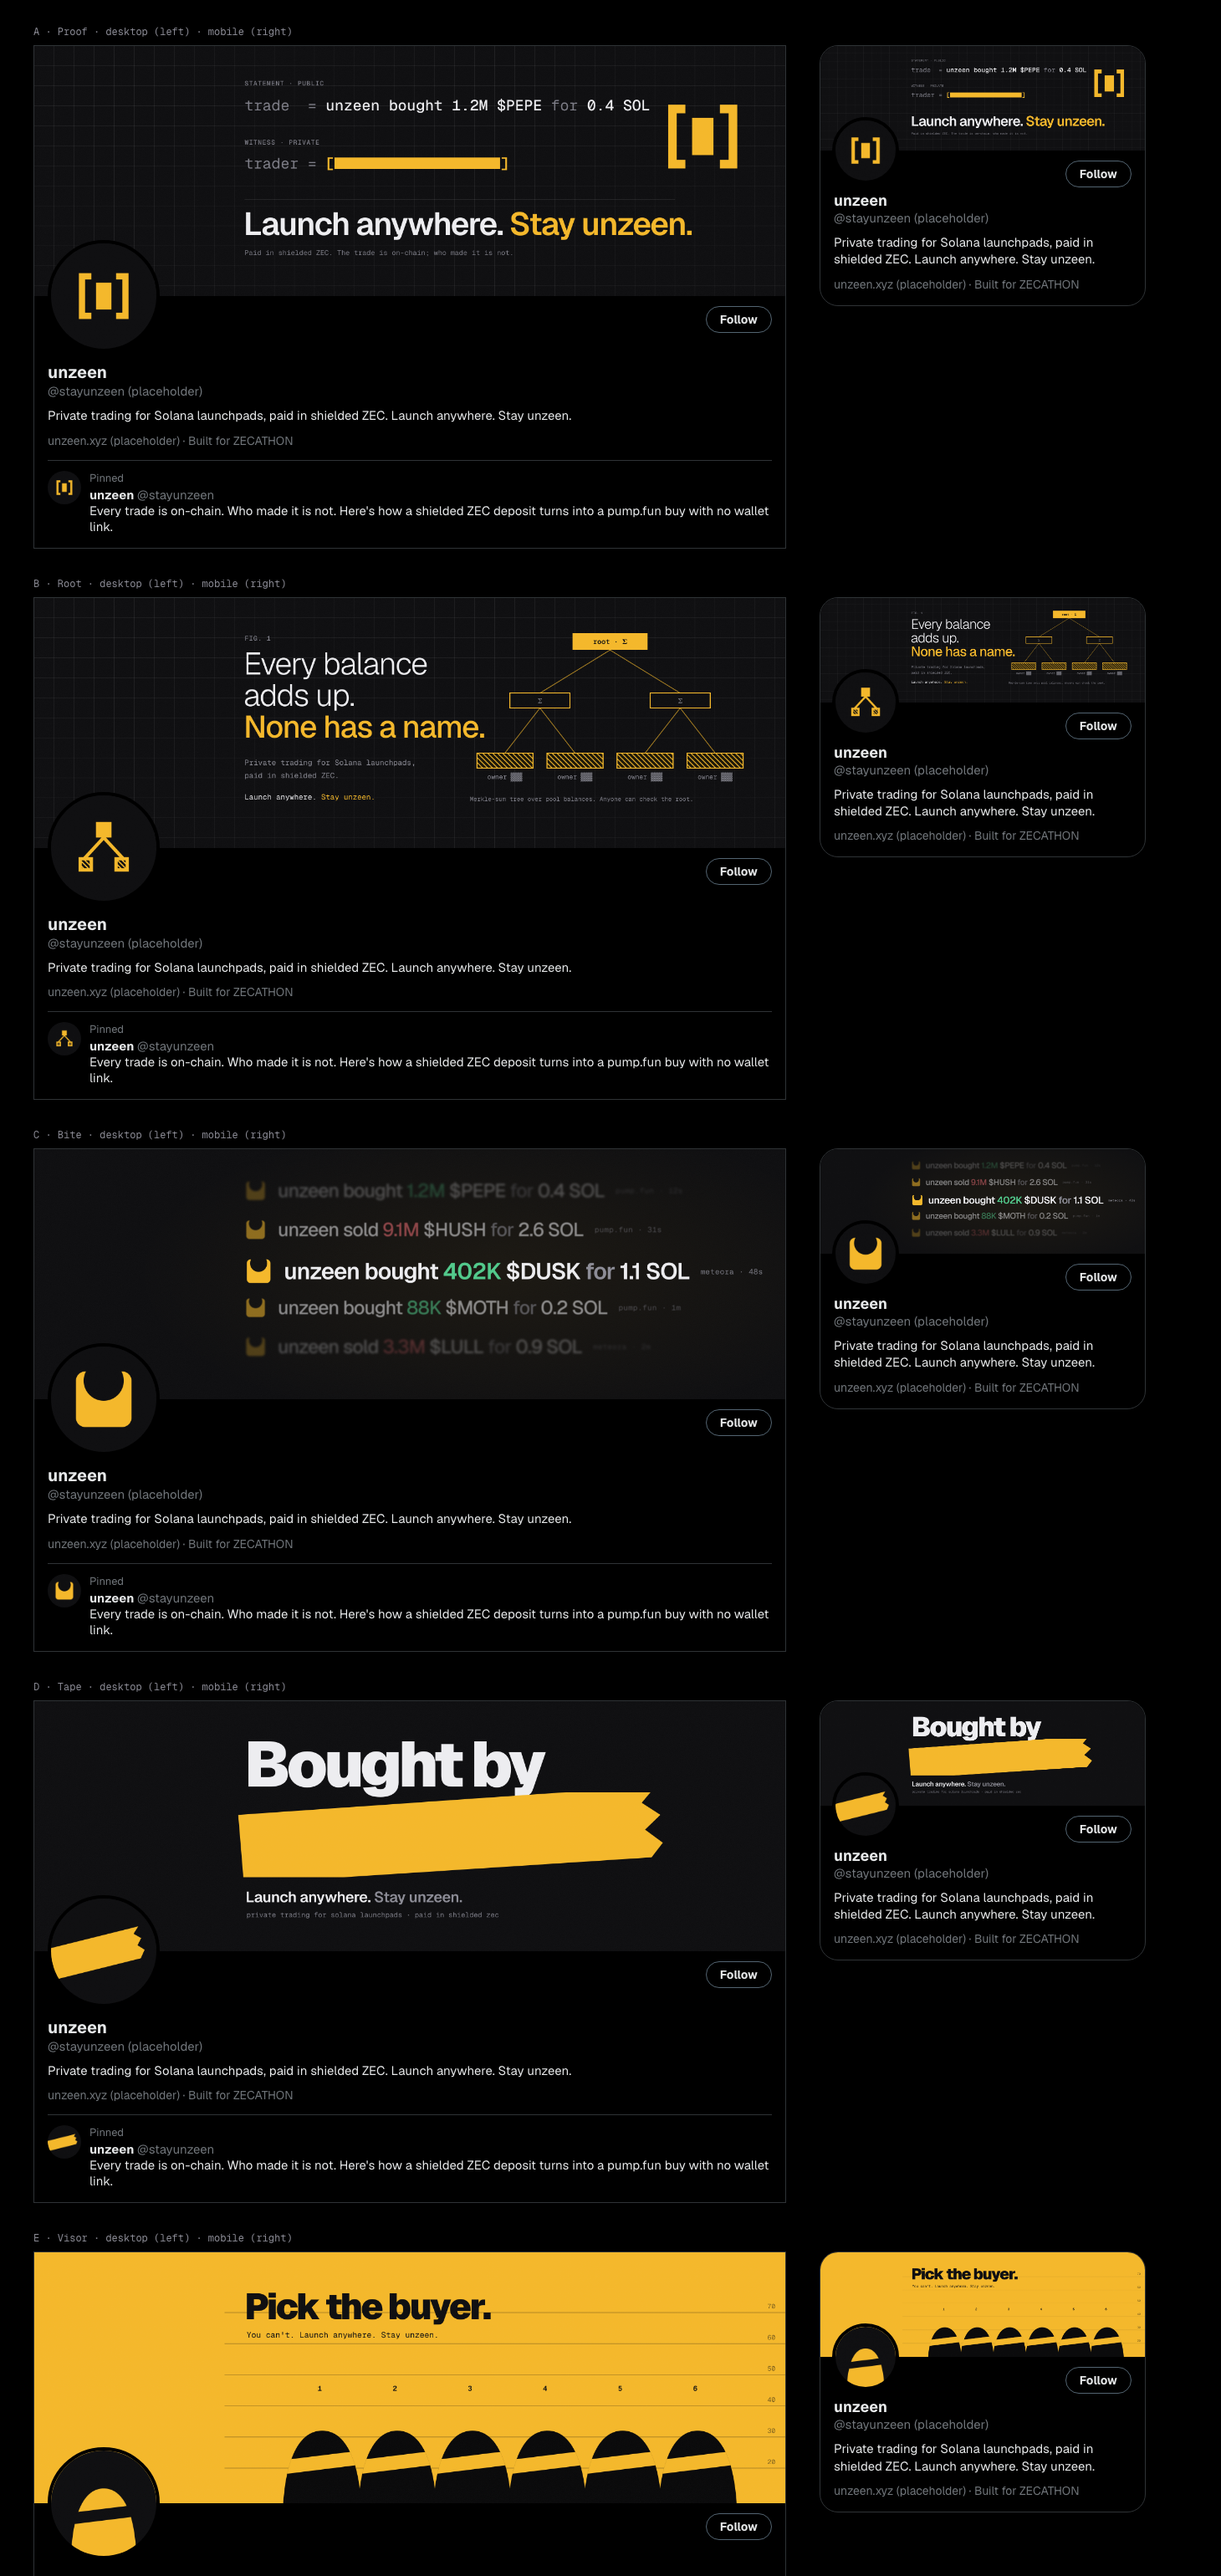
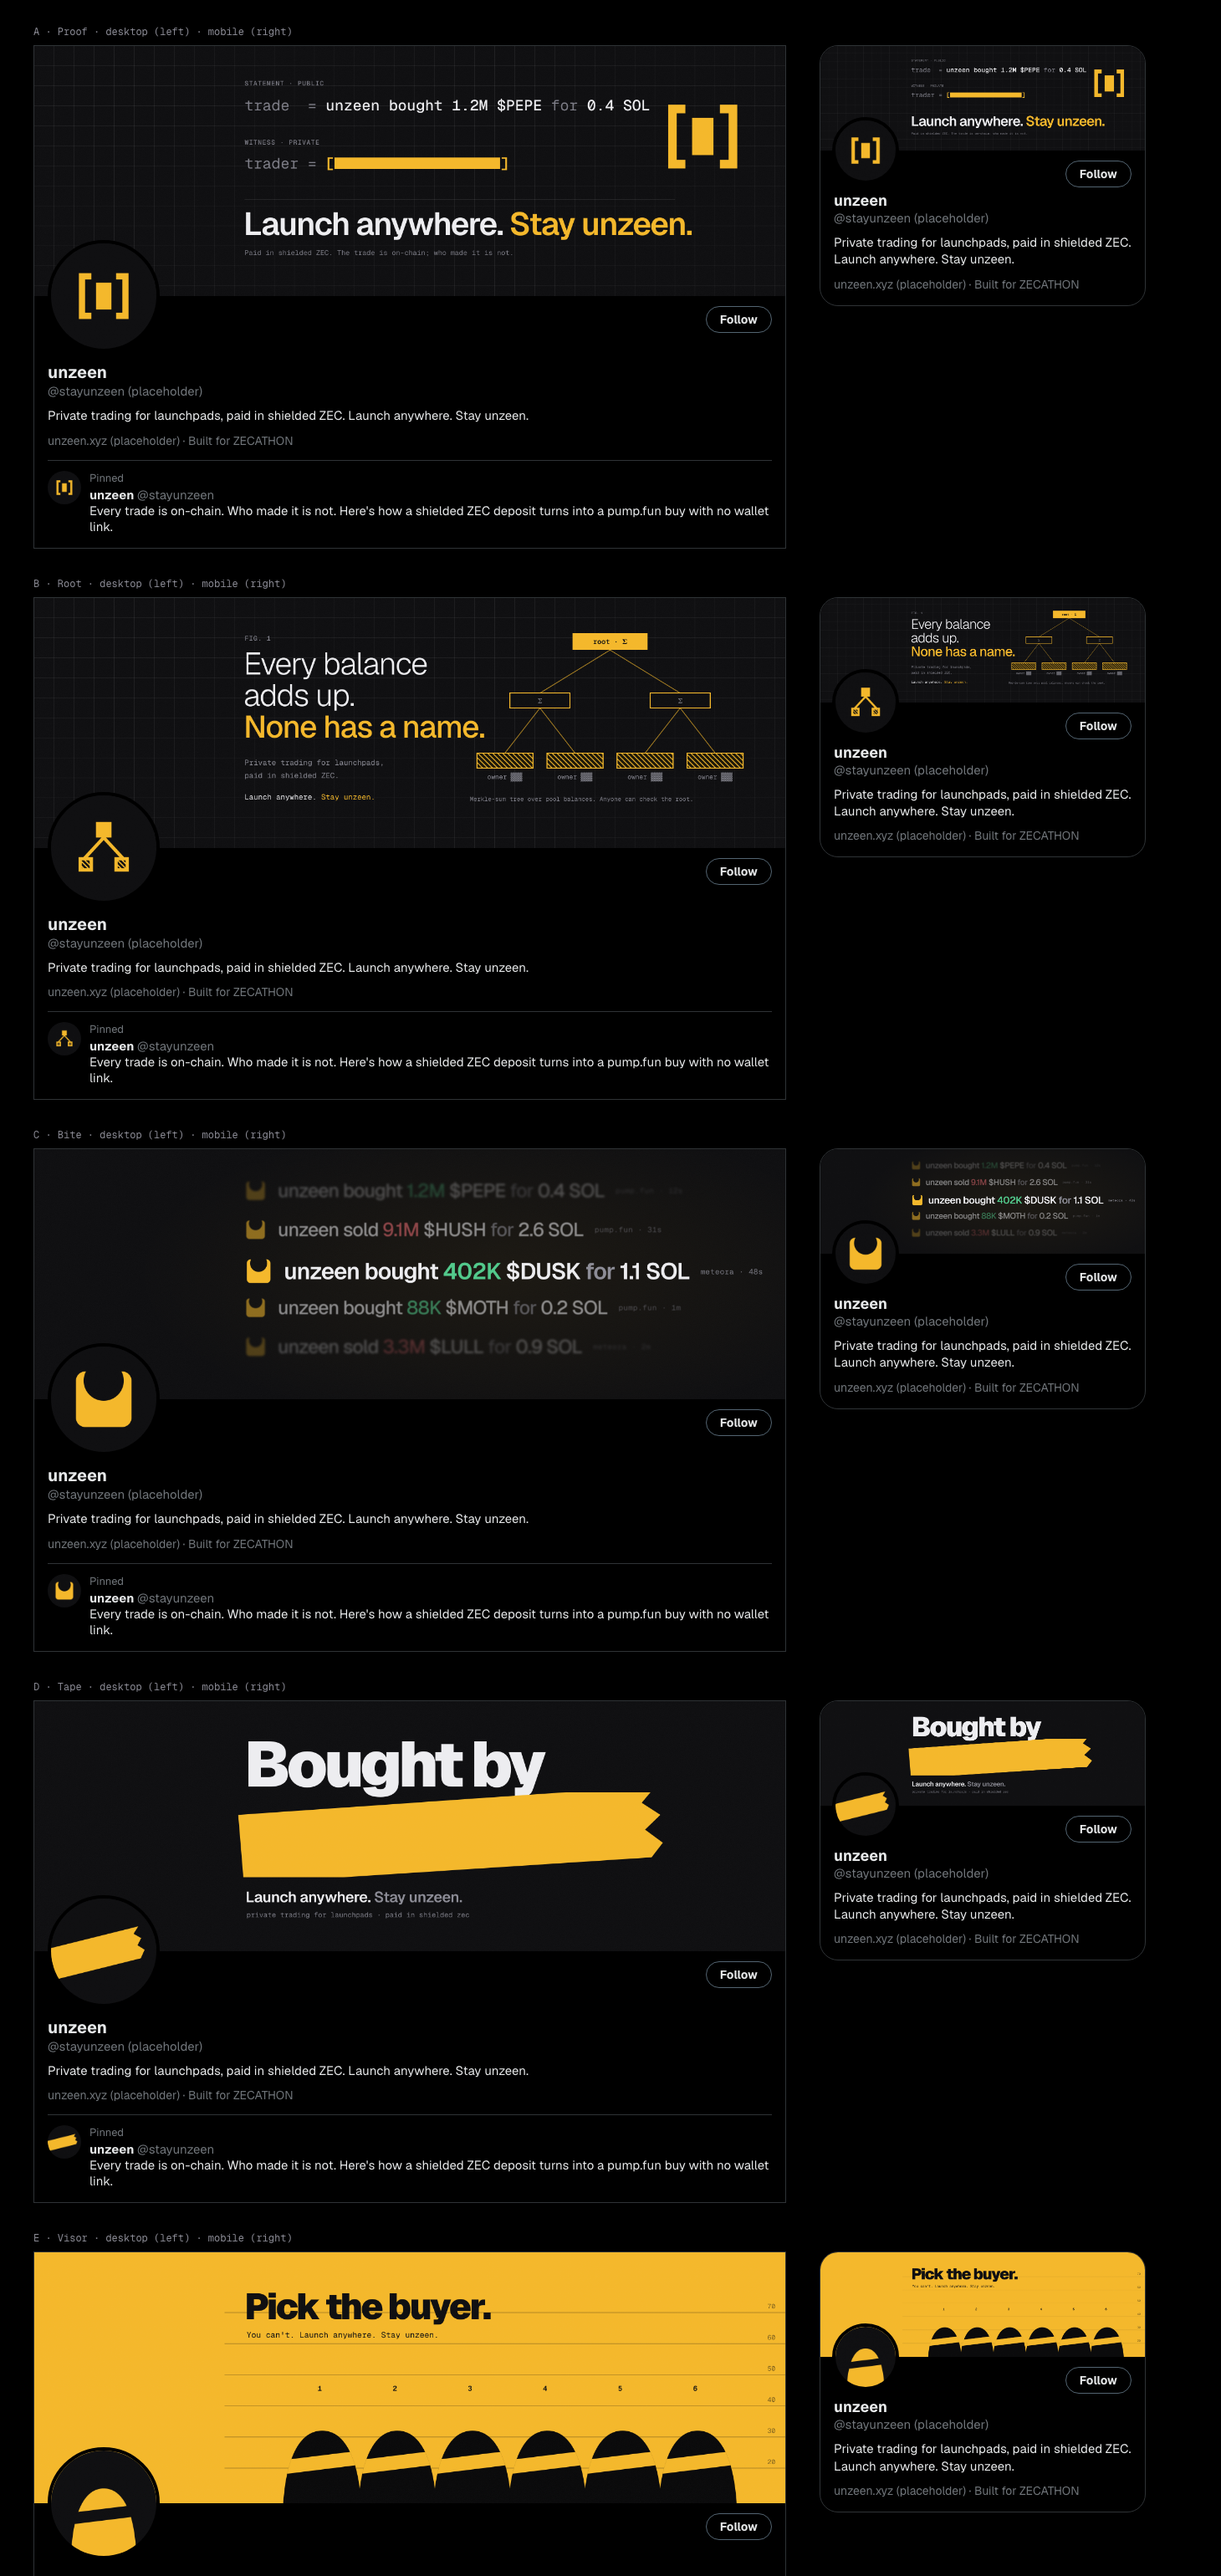
brand v3: remove Solana from copy, Tape wordmark variants D2a/D2b
Claude-Session: https://claude.ai/code/session_01LmbUzhPqR58YuKaDUmZiZH

diff --git a/docs/brand/v3/src/d2-sheet.html b/docs/brand/v3/src/d2-sheet.html
@@ -1,0 +1,24 @@
+<!doctype html><html lang="en"><head><meta charset="utf-8"><title>Unzeen v3 · Tape wordmark fixes</title>
+<link rel="stylesheet" href="base.css">
+<style>
+  body { width: 1600px; height: 900px; padding: 40px 48px; }
+  h1 { font: 500 15px "Geist Mono"; color: var(--fog-3); margin-bottom: 22px; }
+  .row { display: grid; grid-template-columns: 260px 560px 1fr; gap: 32px; align-items: center; padding: 22px 0; border-top: 1px solid var(--hair); }
+  .t b { display: block; font: 600 20px "Geist"; margin-bottom: 6px; } .t span { font: 12px/1.5 "Geist Mono"; color: var(--fog-3); }
+  .lk img { height: 84px; display: block; border-radius: 6px; } .lk img + img { margin-top: 10px; }
+  .hdr { display: flex; align-items: center; justify-content: space-between; background: var(--ink-1); border: 1px solid var(--hair-2); border-radius: 10px; padding: 14px 18px; width: 620px; }
+  .hdr img { height: 26px; display: block; } .hdr nav { font: 14px "Geist"; color: var(--fog-3); display: flex; gap: 20px; }
+  .sm { display: flex; gap: 20px; align-items: center; margin-top: 12px; } .sm img { display: block; }
+</style></head><body>
+<h1>D · Tape wordmark: current vs two fixes · lockup dark / light · in a site header (26px) · small (16px)</h1>
+<script>
+const rows = [
+  ["d-tape", "D · current", "tape across the middle of zee: reads as a strikethrough"],
+  ["d2a-tape", "D2a · z only", "the tape hides the z and nothing else: un▬een. Reads as unseen, and the mark carries no Z"],
+  ["d2b-tape", "D2b · low strip", "a thin label strip along the baseline under zee: tape, not a strike"],
+];
+for (const [f, t, l] of rows) document.write(`<div class="row"><div class="t"><b>${t}</b><span>${l}</span></div>
+  <div class="lk"><img src="../svg/${f}-lockup-dark.svg"><img src="../svg/${f}-lockup-light.svg"></div>
+  <div><div class="hdr"><img src="../svg/${f}-wordmark-dark.svg"><nav><span>Feed</span><span>Launch</span><span>Verify</span></nav></div>
+  <div class="sm"><img src="../svg/${f}-wordmark-dark.svg" style="height:16px"><img src="../svg/${f}-wordmark-dark.svg" style="height:20px"></div></div></div>`);
+</script></body></html>

diff --git a/docs/brand/v3/src/banner.html b/docs/brand/v3/src/banner.html
@@ -65,7 +65,7 @@ if (d.k === "b") {
   </svg>
   <div class="abs tag" style="left:420px;top:72px">fig. 1</div>
   <h1 class="abs" style="left:418px;top:100px;font-size:62px;font-weight:300;letter-spacing:-0.03em;line-height:1.02">Every balance<br>adds up.<br><span class="y" style="font-weight:500">None has a name.</span></h1>
-  <div class="abs eq" style="left:420px;top:316px;font-size:15px;line-height:1.7;color:var(--fog-3)">Private trading for Solana launchpads,<br>paid in shielded ZEC.</div>
+  <div class="abs eq" style="left:420px;top:316px;font-size:15px;line-height:1.7;color:var(--fog-3)">Private trading for launchpads,<br>paid in shielded ZEC.</div>
   <div class="abs eq" style="left:420px;top:388px;font-size:15px;color:var(--paper)">Launch anywhere. <span class="y">Stay unzeen.</span></div>
   <div class="abs eq" style="left:${X0}px;top:${ys[2] + 84}px;font-size:12px;color:var(--fog-2)">Merkle-sum tree over pool balances. Anyone can check the root.</div>`;
 }
@@ -95,7 +95,7 @@ if (d.k === "d") {
   <svg class="abs" style="left:404px;top:182px" width="900" height="170" viewBox="0 0 900 170"><g transform="rotate(-3 450 85)">
     <path fill="#F4B728" d="M6,22 L842,8 L812,40 L848,66 L816,94 L850,122 L826,150 L10,160 Z"/></g></svg>
   <div class="abs" style="left:422px;top:372px;font:600 30px Geist;letter-spacing:-0.02em">Launch anywhere. <span style="color:var(--fog-3)">Stay unzeen.</span></div>
-  <div class="abs mono" style="left:424px;top:418px;font-size:14px;color:var(--fog-2)">private trading for solana launchpads · paid in shielded zec</div>`;
+  <div class="abs mono" style="left:424px;top:418px;font-size:14px;color:var(--fog-2)">private trading for launchpads · paid in shielded zec</div>`;
 }
 
 /* E · Visor: the lineup. Yellow ground, identical suspects, height lines. */

diff --git a/docs/brand/v3/src/preview-profile.html b/docs/brand/v3/src/preview-profile.html
@@ -20,7 +20,7 @@
   .mob .pin { display: none; }
 </style></head><body>
 <script>
-const bio = "Private trading for Solana launchpads, paid in shielded ZEC. Launch anywhere. Stay unzeen.";
+const bio = "Private trading for launchpads, paid in shielded ZEC. Launch anywhere. Stay unzeen.";
 for (const d of DIRS) {
   const card = (cls) => `<div class="${cls}"><div class="hdr"><img src="../x/banner-${d.k}@2x.png"></div><div class="body"><img class="av" src="../x/avatar-${d.k}@2x.png">
     <div class="btn">Follow</div><div class="name">unzeen</div><div class="handle">@stayunzeen (placeholder)</div><div class="bio">${bio}</div>

diff --git a/docs/brand/v3/src/build.py b/docs/brand/v3/src/build.py
@@ -154,13 +154,30 @@ def mark_g(k, u, light=False, small=False):
     if k == "e": return f(u, fg=INK, bar=ZEC, bg=LIGHT, small=small)
 
 
-def wordmark(k, x, base, size, color, u, light=False):
+def wordmark(k, x, base, size, color, u, light=False, tv=None):
     font, tr = WORD[k]
     o = outline(font, "unzeen", tr)
     s = size / o["upm"]
     paths = "".join(f'<path d="{g["d"]}"/>' for g in o["glyphs"])
     out = f'<g transform="translate({x} {base}) scale({s})" fill="{color}">{paths}</g>'
     extra = ""
+    if k == "d" and tv == "z":  # d2a: the tape hides the z only -> "un▬een" (reads as unseen; no Z in the mark either)
+        g = o["glyphs"]
+        zx0, zx1 = g[2]["x"] * s + x + 1, (g[2]["x"] + g[2]["adv"]) * s + x - 1
+        xh = o["xh"] * s
+        h = xh * 1.04
+        y0 = base - xh * 1.05
+        d = tape_path(zx0, y0, zx1 - zx0, h, teeth=3, tear=(zx1 - zx0) * 0.16)
+        return out.replace(paths, "".join(f'<path d="{gg["d"]}"/>' for i, gg in enumerate(o["glyphs"]) if i != 2)) + \
+            f'<g transform="rotate(-4 {(zx0+zx1)/2} {y0+h/2})"><path d="{d}" fill="{ZEC}"/></g>', o["width"] * s
+    if k == "d" and tv == "low":  # d2b: a thin label strip under "zee", over the baseline only: tape, not a strike
+        g = o["glyphs"]
+        zx0, zx1 = g[2]["x"] * s + x - 6, (g[4]["x"] + g[4]["adv"]) * s + x + 10
+        xh = o["xh"] * s
+        h = xh * 0.26
+        y0 = base - h * 0.55
+        d = tape_path(zx0, y0, zx1 - zx0, h, teeth=2, tear=h * 0.45)
+        return out + f'<g transform="rotate(-2.5 {(zx0+zx1)/2} {y0+h/2})"><path d="{d}" fill="{ZEC}"/></g>', o["width"] * s
     if k == "d":  # the tape over "zee": covers the middle band of the x-height, letters still read
         g = o["glyphs"]
         zx0, zx1 = g[2]["x"] * s + x - 4, (g[4]["x"] + g[4]["adv"]) * s + x + 2
@@ -172,13 +189,13 @@ def wordmark(k, x, base, size, color, u, light=False):
     return out + extra, o["width"] * s
 
 
-def lockup(k, light=False):
+def lockup(k, light=False, tv=None):
     H = 120
     msize = 84
     body = f'<g transform="translate(18 18) scale({msize/64})">{mark_g(k, "L"+k+("l" if light else "d"), light)}</g>'
     size = 76 if k != "a" else 68
     color = INK if light else PAPER
-    wm, ww = wordmark(k, 18 + msize + 26, 87, size, color, k, light)
+    wm, ww = wordmark(k, 18 + msize + 26, 87, size, color, k, light, tv)
     W = int(18 + msize + 26 + ww + 26)
     return svg(W, H, body + wm, bg=LIGHT if light else INK, title="unzeen")
 
@@ -203,6 +220,14 @@ def main():
         write(f"{n}-wordmark-dark.svg", svg(int(ww + 8), 80, wm))
     # avatar marks (no ground): visor rising from the bottom edge
     write("e-visor-avatar-body.svg", svg(64, 64, mark_visor("av", fg=INK0, bar="#F4B728", crop=True)))
+    # D2: two fixes for the Tape wordmark so "unzeen" does not read as struck through
+    for tv, nm in (("z", "d2a-tape"), ("low", "d2b-tape")):
+        write(f"{nm}-lockup-dark.svg", lockup("d", tv=tv))
+        write(f"{nm}-lockup-light.svg", lockup("d", light=True, tv=tv))
+        wm, ww = wordmark("d", 4, 66, 76, PAPER, "d2" + tv, tv=tv)
+        write(f"{nm}-wordmark-dark.svg", svg(int(ww + 12), 84, wm))
+        wm, ww = wordmark("d", 4, 66, 76, INK, "d2l" + tv, tv=tv)
+        write(f"{nm}-wordmark-light.svg", svg(int(ww + 12), 84, wm, bg=LIGHT))
     write("e-visor-avatar-yellow.svg", svg(64, 64, mark_visor("ay", crop=True)))
     print("ok")
 

diff --git a/docs/brand/v3/src/jobs.py b/docs/brand/v3/src/jobs.py
@@ -27,6 +27,7 @@ for k, n in DIRS:
 J(u("logos.html"), 1800, 1060, 1, os.path.join(OUT, "logo-sheet.png"))
 J(u("preview-profile.html"), 1460, 3080, 1, os.path.join(OUT, "preview-profile.png"))
 J(u("preview-safezone.html"), 1600, 2940, 1, os.path.join(OUT, "preview-banner-safezone.png"))
+J(u("d2-sheet.html"), 1600, 900, 1, os.path.join(OUT, "d2-sheet.png"))
 J(u("overview.html"), 2400, 1800, 1, os.path.join(OUT, "overview.png"))
 only = os.environ.get("ONLY")
 if only: jobs = [j for j in jobs if re.search(only, j["out"])]

diff --git a/docs/brand/v3/README.md b/docs/brand/v3/README.md
@@ -13,3 +13,10 @@
 Файлы: `svg/` (знаки, lockup, wordmark, favicon; текст переведён в кривые, шрифт не нужен), `png/` (512, @4x lockup, favicon 16/32/48/180), `x/` (avatar 400 и @2x, banner 1500×500 и @2x).
 
 Пересборка (офлайн): `PYTHON=<python с fonttools> PUPPETEER_CORE=<путь к puppeteer-core> sh src/render.sh` (`ONLY=<regex>` — часть). Шрифты Geist лежат локально в `src/fonts` (OFL), сеть не используется.
+
+## D2: доработка wordmark Tape (`d2-sheet.png`)
+Владелец выбрал D · Tape. В исходном wordmark лента идёт по середине «zee» и читается как зачёркивание. Два исправления:
+- **D2a · z only** (`svg/d2a-tape-*`, `png/d2a-tape-*`): лента закрывает только «z» → «un▬een», читается как «unseen». Плюс: в знаке нет буквы Z (правила бренда Zcash).
+- **D2b · low strip** (`svg/d2b-tape-*`, `png/d2b-tape-*`): тонкая лента-ярлык по базовой линии под «zee». Слово читается целиком.
+
+Во всех текстах v3 нет слова «Solana»: бренд не привязан к одной сети. Био: «Private trading for launchpads, paid in shielded ZEC. Launch anywhere. Stay unzeen.»
